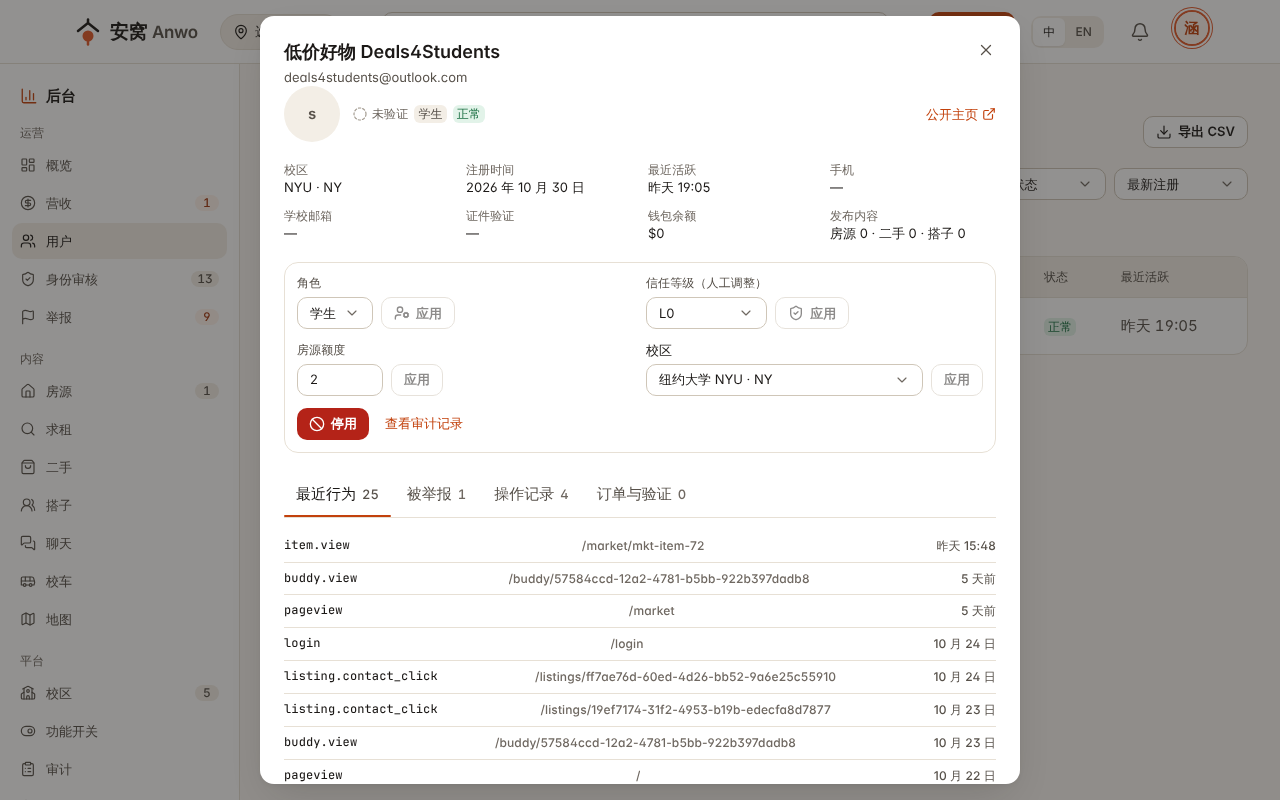
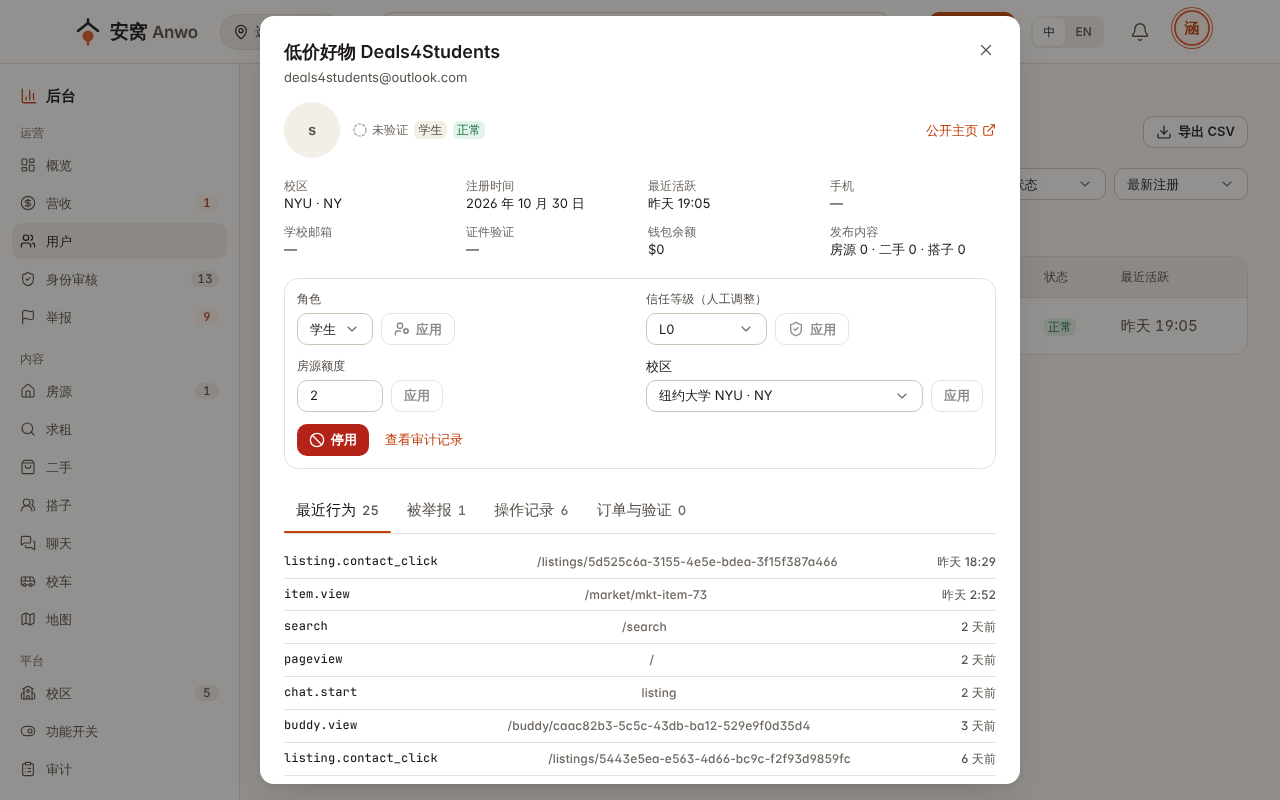
wip: auto-snapshot 2026-11-04T00:16:14Z

diff --git a/web/src/features/admin/pages/Moderation.tsx b/web/src/features/admin/pages/Moderation.tsx
@@ -11,7 +11,7 @@ import { toast } from '@/lib/toast';
 import { cn } from '@/lib/cn';
 import { Head } from '@/app/Head';
 import { adminApi, useAdminMutation, useModeration } from '../api';
-import { BulkBar, CampusFilter, ErrorState, ExportLink, KeyHints, ModerationBadge, PageTitle, ReasonDialog, useAdminFilters, useRowKeys } from '../ui';
+import { BulkBar, CampusFilter, ErrorState, ExportLink, KeyHints, ModerationBadge, PageTitle, ReasonDialog, useAdminFilters, useRowKeys, useStatusLabel } from '../ui';
 
 type ModTab = 'all' | 'flagged' | 'hidden' | 'ok';
 type Target = 'ok' | 'flagged' | 'hidden';
@@ -19,6 +19,7 @@ type Target = 'ok' | 'flagged' | 'hidden';
 export function ModerationTable({ entityType, titleKey, embedded }: { entityType: ModeratedEntityType; titleKey: string; embedded?: boolean }) {
   const t = useT();
   const { formatMoney, formatRelative, formatNumber } = useLocale();
+  const statusLabel = useStatusLabel();
   const f = useAdminFilters();
   const tab = (f.param('mod') as ModTab | null) ?? 'all';
   const [q, setQ] = useState('');
@@ -108,7 +109,7 @@ export function ModerationTable({ entityType, titleKey, embedded }: { entityType
             { key: 'price', header: t('admin.mod.price'), align: 'right', hideOnMobile: true, render: (r) => (r.priceCents !== null ? formatMoney(r.priceCents) : '—') },
             { key: 'views', header: t('admin.mod.views'), align: 'right', hideOnMobile: true, render: (r) => formatNumber(r.viewCount) },
             { key: 'reports', header: t('admin.users.reports'), align: 'right', render: (r) => (r.openReports ? <Badge size="sm" variant="warning">{r.openReports}</Badge> : <span className="text-ink-3">{r.reportCount}</span>) },
-            { key: 'status', header: t('admin.mod.status'), render: (r) => <div className="flex flex-wrap items-center gap-1"><ModerationBadge status={r.moderationStatus} /><span className="text-caption text-ink-3">{r.status}</span></div> },
+            { key: 'status', header: t('admin.mod.status'), render: (r) => <div className="flex flex-wrap items-center gap-1"><ModerationBadge status={r.moderationStatus} /><span className="text-caption text-ink-3">{statusLabel(r.status)}</span></div> },
             { key: 'created', header: t('admin.mod.created'), hideOnMobile: true, render: (r) => <span className="text-ink-2">{formatRelative(r.createdAt)}</span> },
           ]}
           rowActions={(r) => (

diff --git a/web/src/i18n/admin.ts b/web/src/i18n/admin.ts
@@ -377,6 +377,24 @@ const zh: Record<string, string> = {
   'admin.entity.partner': '合作方',
 
   // moderation
+  'admin.entityStatus.draft': '草稿',
+  'admin.entityStatus.active': '在架',
+  'admin.entityStatus.paused': '已暂停',
+  'admin.entityStatus.rented': '已租出',
+  'admin.entityStatus.expired': '已过期',
+  'admin.entityStatus.removed': '已移除',
+  'admin.entityStatus.open': '开放中',
+  'admin.entityStatus.full': '已满员',
+  'admin.entityStatus.closed': '已关闭',
+  'admin.entityStatus.cancelled': '已取消',
+  'admin.entityStatus.reserved': '已预留',
+  'admin.entityStatus.sold': '已售出',
+  'admin.entityStatus.fulfilled': '已找到',
+  'admin.entityStatus.banned': '已停用',
+  'admin.entityStatus.visible': '可见',
+  'admin.entityStatus.deleted': '已删除',
+  'admin.entityStatus.locked': '已锁定',
+  'admin.entityStatus.inactive': '已下线',
   'admin.moderation.ok': '正常',
   'admin.moderation.flagged': '待复核',
   'admin.moderation.hidden': '已隐藏',
@@ -933,6 +951,24 @@ const en: Record<string, string> = {
   'admin.entity.conversation': 'Chat',
   'admin.entity.partner': 'Partner',
 
+  'admin.entityStatus.draft': 'Draft',
+  'admin.entityStatus.active': 'Live',
+  'admin.entityStatus.paused': 'Paused',
+  'admin.entityStatus.rented': 'Rented',
+  'admin.entityStatus.expired': 'Expired',
+  'admin.entityStatus.removed': 'Removed',
+  'admin.entityStatus.open': 'Open',
+  'admin.entityStatus.full': 'Full',
+  'admin.entityStatus.closed': 'Closed',
+  'admin.entityStatus.cancelled': 'Cancelled',
+  'admin.entityStatus.reserved': 'Reserved',
+  'admin.entityStatus.sold': 'Sold',
+  'admin.entityStatus.fulfilled': 'Fulfilled',
+  'admin.entityStatus.banned': 'Suspended',
+  'admin.entityStatus.visible': 'Visible',
+  'admin.entityStatus.deleted': 'Deleted',
+  'admin.entityStatus.locked': 'Locked',
+  'admin.entityStatus.inactive': 'Inactive',
   'admin.moderation.ok': 'OK',
   'admin.moderation.flagged': 'Flagged',
   'admin.moderation.hidden': 'Hidden',

diff --git a/web/src/features/admin/pages/Reports.tsx b/web/src/features/admin/pages/Reports.tsx
@@ -11,7 +11,7 @@ import { toast } from '@/lib/toast';
 import { cn } from '@/lib/cn';
 import { Head } from '@/app/Head';
 import { adminApi, useAdminMutation, useAdminReport, useAdminReports } from '../api';
-import { BulkBar, CampusFilter, ErrorState, ExportLink, KeyHints, ModerationBadge, PageTitle, ReasonDialog, ReportStatusBadge, useAdminFilters, useAge, useRowKeys } from '../ui';
+import { BulkBar, CampusFilter, ErrorState, ExportLink, KeyHints, ModerationBadge, PageTitle, ReasonDialog, ReportStatusBadge, useAdminFilters, useAge, useRowKeys, useStatusLabel } from '../ui';
 
 type StatusTab = 'pending' | 'open' | 'in_review' | 'actioned' | 'dismissed' | 'all';
 const TABS: StatusTab[] = ['pending', 'in_review', 'actioned', 'dismissed', 'all'];
@@ -27,6 +27,7 @@ function actionsFor(type: string): (typeof ReportActionType)[number][] {
 
 export function EntityCard({ e }: { e: EntitySummary | null }) {
   const t = useT();
+  const statusLabel = useStatusLabel();
   const { formatRelative } = useLocale();
   if (!e) return null;
   if (e.missing) return <p className="rounded-ctl bg-sunken px-3 py-2 text-small text-ink-2">{t('admin.reports.entityMissing')}</p>;
@@ -36,7 +37,7 @@ export function EntityCard({ e }: { e: EntitySummary | null }) {
       <div className="flex min-w-0 flex-1 flex-col gap-1">
         <div className="flex flex-wrap items-center gap-1.5">
           <Badge size="sm">{t(`admin.entity.${e.type}`)}</Badge>
-          {e.status && <span className="text-caption text-ink-3">{t('admin.reports.entityStatus', { status: e.status })}</span>}
+          {e.status && <span className="text-caption text-ink-3">{t('admin.reports.entityStatus', { status: statusLabel(e.status) })}</span>}
           <ModerationBadge status={e.moderationStatus} />
         </div>
         <p className="truncate font-medium text-ink">{e.title}</p>

diff --git a/web/src/features/admin/ui.tsx b/web/src/features/admin/ui.tsx
@@ -151,6 +151,13 @@ export function ExportLink({ table, query, label }: { table: string; query?: Rec
 }
 
 // ------------------------------------------------------------------ status badges
+const STATUS_KEYS = new Set(['draft', 'active', 'paused', 'rented', 'expired', 'removed', 'open', 'full', 'closed', 'cancelled', 'reserved', 'sold', 'fulfilled', 'banned', 'visible', 'deleted', 'locked', 'inactive']);
+/** Localized label for an entity lifecycle status (falls back to the raw code). */
+export function useStatusLabel() {
+  const t = useT();
+  return (s: string | null | undefined) => (s && STATUS_KEYS.has(s) ? t(`admin.entityStatus.${s}`) : s ?? '');
+}
+
 export function ReportStatusBadge({ status }: { status: ReportStatus }) {
   const t = useT();
   const v = status === 'open' ? 'warning' : status === 'in_review' ? 'info' : status === 'actioned' ? 'success' : 'neutral';

diff --git a/web/src/features/admin/pages/Users.tsx b/web/src/features/admin/pages/Users.tsx
@@ -192,7 +192,7 @@ export function UserDrawer({ id, onClose }: { id: string | null; onClose: () => 
   };
 
   return (
-    <Modal open={!!id} onClose={onClose} size="lg" title={u?.name ?? t('admin.users.detail')} description={u?.email} bodyClassName="pt-0">
+    <Modal open={!!id} onClose={onClose} size="lg" title={u?.name ?? t('admin.users.detail')} description={u?.email}>
       {user.isError ? (
         <ErrorState error={user.error} onRetry={() => void user.refetch()} />
       ) : !u ? (
